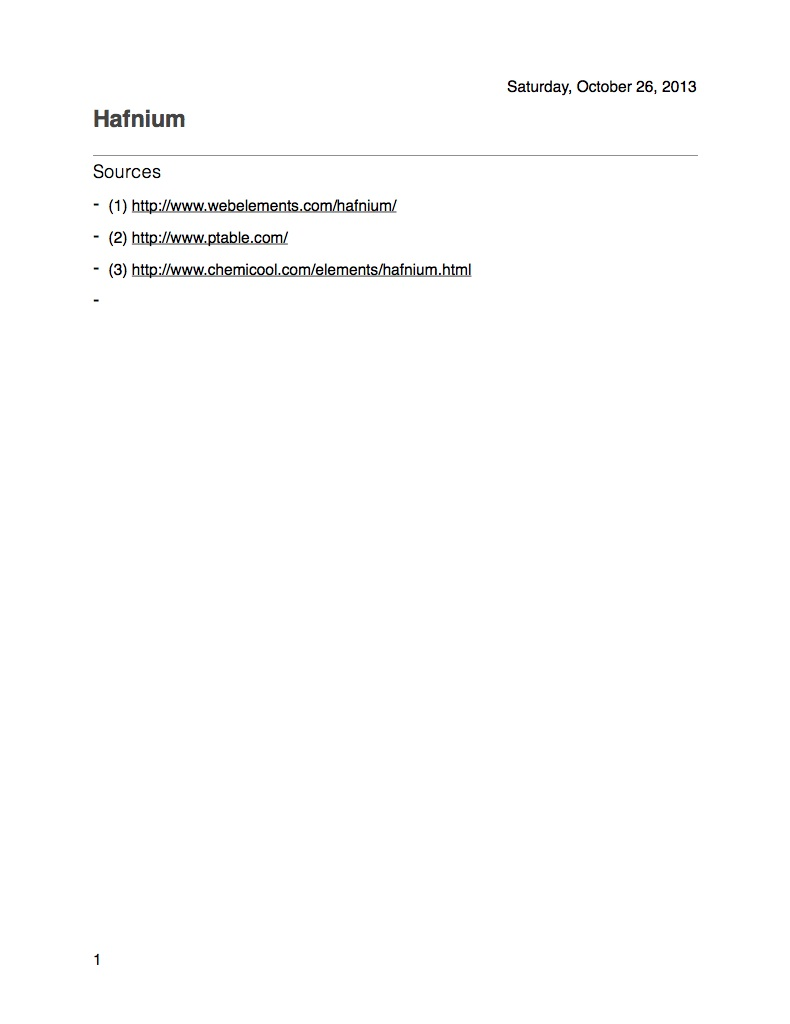
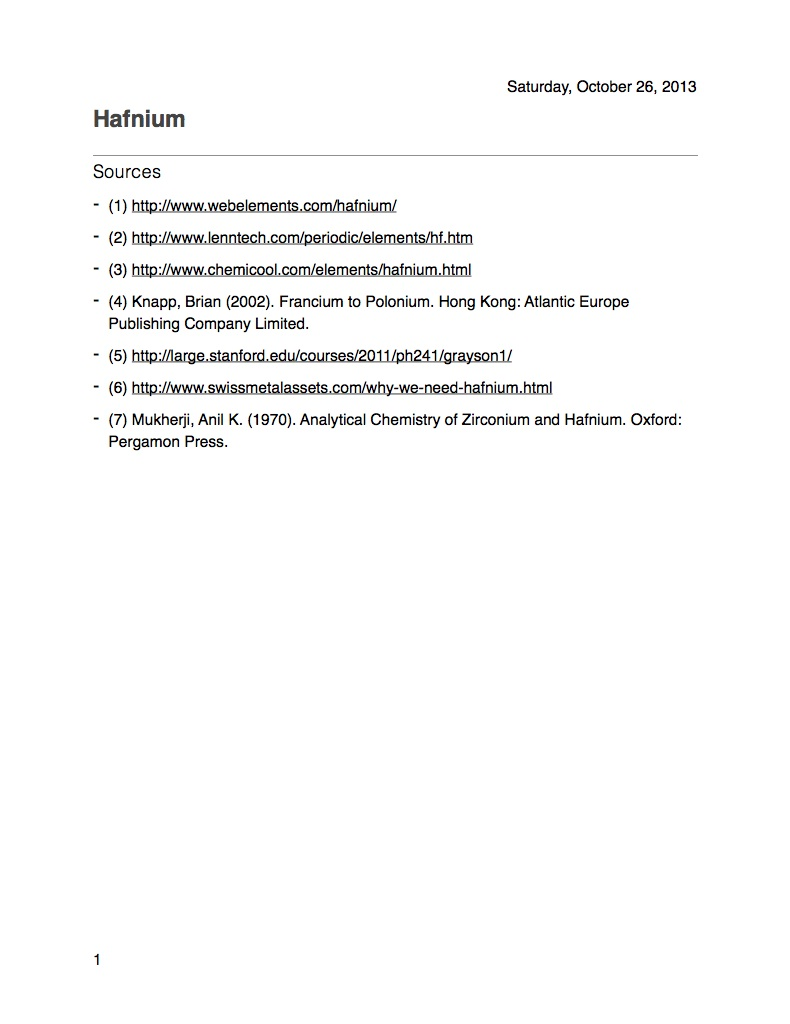
Added tons of info, and more comments. Also added more sources.

Changed region(s): [[0.1215, 0.2812, 0.8506, 0.4375], [0.2734, 0.2188, 0.6076, 0.25]]

diff --git a/Code/Hafnium.py b/Code/Hafnium.py
@@ -36,7 +36,7 @@ while True:
     userSelection = int(input(" #")) #Selection of above numbers. Will print info based on number
     system(clearScreen) #Clears the screen using the method chosen above
     if userSelection == 1: #If user types 1
-        print("General Information of Halfnium (1,2)")
+        print("General Information of Halfnium (1, 2, 4)")
         print()
         print("{0:30s} Hafnium".format("Name:"))
         print("{0:30s} Hf".format("Symbol:"))
@@ -59,43 +59,90 @@ while True:
             print("\nPlease click the window 'tk' to view image")
         
         cont = input("\nPress Enter to return to the main menu...")
-        canvas.destroy()
+        canvas.destroy() #Clears the image from tk window
         system(clearScreen) #Clears the screen using method chosen above
         break #Breaks current loop, to go to menu 2.
 
     elif userSelection == 2: #If user types 2
-        print("Discovery of Hafnium (1, 3)")
+        print("Discovery of Hafnium (1, 2, 3, 4, 6)")
         print("Halfnium was discovered in 1923 by Dirk Coster and George Charles von Hevesy")
         print("in Copenhagen, Denmark. Halfnium comes from the latin name Hafnia, meaning")
         print("Copenhagen. To discover the 72nd elemt, Coster and von Hevesy analyzed ores")
-        print("such as zirconium with x-ray spectography. Halfnium can be isolated into a ")
+        print("such as zirconium with x-ray spectography. Halfnium can be isolated into a")
         print("pure form from Hafnium Tetraiodide (HfI⁴). The HfI⁴ is decomposed on a tungsten")
         print("filament, which makes a crystal bar of Hafnium. This is called the crystal")
-        print("bar process.")
+        print("bar process. The main reason Hafnium was not discovered until 1923 is because")
+        print("it is extremely difficult to obtain from Zirconium ore.")
         cont = input("\nPress Enter to return to the main menu...")
         system(clearScreen) #Clears the screen using method chosen above
         break #Breaks current loop, to go to menu 2.
 
     elif userSelection == 3: #If user types 3
-        print("Properties of Hafnium")
+        print("Properties of Hafnium (1, 2, 3, 4, 7)")
         print("  Physical Properties:")
         print("   ・{0:30s} 2506K (2233ºC)".format("Melting Point:"))
         print("   ・{0:30s} 4876K (8317ºC)".format("Boiling Point:"))
         print("   ・{0:30s} Solid".format("State at Room Temperature:"))
-        print("   ・{0:30s} 13.2g/cm³".format("Density at Room Tempurature:"))
+        print("   ・{0:30s} 13.31g/cm³".format("Density at Room Tempurature:"))
+        print("   ・{0:30s} 2, 8, 18, 32, 10, 2".format("Electron Shell Configuration:"))
+        print("   ・{0:30s} [Xe] 4f¹⁴ 5d² 6s²".format("Valence Shell Configuration:"))
+        print("   ・{0:30s} Shiny".format("Lustre:"))
+        print("   ・{0:30s} Silver".format("Colour:"))
+        print("   ・{0:30s} Brittle".format("Malleability:"))
+        print("   ・{0:30s} 178.49".format("Atomic Weight:"))
+        print("   ・{0:30s} 72".format("Protons:"))
+        print("   ・{0:30s} 72".format("Electrons:"))
+        print("   ・{0:30s} 108".format("Neutrons:"))
+        print("  Chemical Properties:")
+        print("   ・{0:30s} Mildly toxic to humans; mild irritation".format("Toxicity:"))
+        print("   ・{0:30s} Dust is flammable".format("Flammability:"))
+        print("   ・{0:30s} Dust is explosive".format("Explosiveness:"))
         cont = input("\nPress Enter to return to the main menu...")
         system(clearScreen) #Clears the screen using method chosen above
         break #Breaks current loop, to go to menu 2.
     
     elif userSelection == 4: #If user types 4
-        print("This is the contents of selection 4.")
-        cont = input("Press Enter to return to the main menu...")
+        print("Uses of Hafnium: (1, 4, 5, 6, 7)")
+        print()
+        print("Hafnium is a fairly common element, especially considering that it is only")
+        print("used in one thing: nuclear reactor control rods. A control rod controls the")
+        print("rate at which fission takes place inside the nuclear reactor. Without Hafnium,")
+        print("it would not be possible to create nuclear fission; it would all happen too fast")
+        print("and be much to dangerous. Without Hafnium, the world would have to rely upon")
+        print("other forms of power, such as coal, which could potentially create more")
+        print("pollution than nuclear power, which would increase the rate of climate change.")
+        print("Put simply, without Hafnium, climate change would happen faster. Hafnium is also")
+        print("used in nuclear submarines (submarines powered by nuclear reactors). Lastly,")
+        print("Hafnium is used in light bulb filaments for cameras, jet and rocket engines,")
+        print("and computer chips.")
+        cont = input("\nPress Enter to continue...")
+        system(clearScreen) #Clears the screen using method chosen above
+        print("Uses of Hafnium: (1, 4, 5, 6, 7)")
+        print()
+        print("There are 5 different ways to separate Hafnium from Zirconium, listed below.")
+        print()
+        print(" 1. Liquid-liquid extraction* (using their different levels of solubility")
+        print(" 2. Fractional crystallization and precipitation")
+        print(" 3. Fractional distillation (using their different boiling points)")
+        print(" 4. Ion migration")
+        print(" 5. Electrolisis")
+        print()
+        print("* Chiefly used by industrial operations")
+        cont = input("\nPress Enter to return to the main menu...")
         system(clearScreen) #Clears the screen using method chosen above
         break #Breaks current loop, to go to menu 2.
 
     elif userSelection == 5: #If user types 5
-        print("This is the contents of selection 5.")
-        cont = input("Press Enter to return to the main menu...")
+        print("Processing of Hafnium: (1, 2, 3, 4, 6, 7)")
+        print()
+        print("Hafnium is never found on it's own; it's always found with Zirconium in minerals")
+        print("and ores. Hafnium is a contaminant of Zirconium, meaning that it is found with")
+        print("Zirconium and can be separated. The two metals are extracted and processed using")
+        print("solvent extraction, as they both have different sollubilities. The solvent")
+        print("extraction method is quite difficult; it can take up to 3 months to extract the")
+        print("minerals out of a few kilograms of rock, making Hafnium and Zirconium valuable.")
+        print("(Hafnium much more so than Zirconium, due to it being very difficult to obtain).")
+        cont = input("\nPress Enter to return to the main menu...")
         system(clearScreen) #Clears the screen using method chosen above
         break #Breaks current loop, to go to menu 2.
 
@@ -106,8 +153,14 @@ while True:
         break #Breaks current loop, to go to menu 2.
 
     elif userSelection == 7: #If user types 7
-        print("This is the contents of selection 7.")
-        cont = input("Press Enter to return to the main menu...")
+        print("Important Hafnium Compounds: (7)")
+        print()
+        print("Hafnium Dioxide and Hafnium Boride are the two most common compounds involving")
+        print("Hafnium. They are both used in nuclear reactor control rods. They are also used")
+        print("as construction materials for jet engines, rocket engines, and guided missiles,")
+        print("because Hafnium can absorb and release heat over twice as fast and Zirconium or")
+        print("Titanium, the two other major elements used for those tasks.")
+        cont = input("\nPress Enter to return to the main menu...")
         system(clearScreen) #Clears the screen using method chosen above
         break #Breaks current loop, to go to menu 2.
 
@@ -122,11 +175,68 @@ while True:
         wait(1)
         system(clearScreen) #Clears the screen using the method chosen above
         quit() #Quits the program, clearing memory and threads (yay modern memory management!)
+    else:
+        print("Please enter a valid number (1-9).")
+        wait(2)
+
+
+
+
+
+
+
+
+
+
+
+
+
+
+
+
+
+
+
+
+
+
+
+
+
+
+
+
+
+
+
+
+
+
+
+
+
+
+
+
+
+
+
+
+
+
+
+
+
+
+
+
+
+
+
 
 while True:
     system(clearScreen)
-    print("Welcome to Michael Barker's program for info on the element Hafnium!")
-    print("To begin, type the number of one of the following options, and press enter,")
+    print("Type the number of one of the following options, and press enter,")
     print("to see the information it contains:\n")
     print(" (1) General Information (Atomic weight, etc.)")
     print(" (2) Discovery of Hafnium")
@@ -141,7 +251,7 @@ while True:
     userSelection = int(input(" #")) #Selection of above numbers. Will print info based on number
     system(clearScreen) #Clears the screen using the method chosen above
     if userSelection == 1: #If user types 1
-        print("General Information of Halfnium (1,2)")
+        print("General Information of Halfnium (1, 2, 4)")
         print()
         print("{0:30s} Hafnium".format("Name:"))
         print("{0:30s} Hf".format("Symbol:"))
@@ -152,58 +262,134 @@ while True:
         print("{0:30s} 6".format("Period in Periodic Table:"))
         print("{0:30s} Grey".format("Colour:"))
         print("{0:30s} Transition Metal".format("Element Category:"))
+
+        canvas = Canvas(master, width = 300, height = 200)
+        canvas.pack(expand = YES, fill = BOTH)
+
+        gif1 = PhotoImage(file = '/Volumes/SCHOOL/SCHOOL STUFF/SNC1D/My "Favourite" Element Project/Hafnium/Images/1_Hafnium.gif')
+        canvas.create_image(0, 0, anchor=NW, image = gif1)
+        if operSys == "m":
+            system('''/usr/bin/osascript -e 'tell app "Finder" to set frontmost of process "Python" to true' ''')
+        else:
+            print("\nPlease click the window 'tk' to view image")
+        
         cont = input("\nPress Enter to return to the main menu...")
+        canvas.destroy() #Clears the image from tk window
         system(clearScreen) #Clears the screen using method chosen above
+        break #Breaks current loop, to go to menu 2.
 
     elif userSelection == 2: #If user types 2
-        print("Discovery of Hafnium (1, 3)")
+        print("Discovery of Hafnium (1, 2, 3, 4, 6)")
         print("Halfnium was discovered in 1923 by Dirk Coster and George Charles von Hevesy")
         print("in Copenhagen, Denmark. Halfnium comes from the latin name Hafnia, meaning")
         print("Copenhagen. To discover the 72nd elemt, Coster and von Hevesy analyzed ores")
-        print("such as zirconium with x-ray spectography. Halfnium can be isolated into a ")
+        print("such as zirconium with x-ray spectography. Halfnium can be isolated into a")
         print("pure form from Hafnium Tetraiodide (HfI⁴). The HfI⁴ is decomposed on a tungsten")
         print("filament, which makes a crystal bar of Hafnium. This is called the crystal")
-        print("bar process.")
+        print("bar process. The main reason Hafnium was not discovered until 1923 is because")
+        print("it is extremely difficult to obtain from Zirconium ore.")
         cont = input("\nPress Enter to return to the main menu...")
         system(clearScreen) #Clears the screen using method chosen above
+        break #Breaks current loop, to go to menu 2.
 
     elif userSelection == 3: #If user types 3
-        print("Properties of Hafnium")
+        print("Properties of Hafnium (1, 2, 3, 4, 7)")
         print("  Physical Properties:")
         print("   ・{0:30s} 2506K (2233ºC)".format("Melting Point:"))
         print("   ・{0:30s} 4876K (8317ºC)".format("Boiling Point:"))
         print("   ・{0:30s} Solid".format("State at Room Temperature:"))
-        print("   ・{0:30s} 13.2g/cm³".format("Density at Room Tempurature:"))
+        print("   ・{0:30s} 13.31g/cm³".format("Density at Room Tempurature:"))
+        print("   ・{0:30s} 2, 8, 18, 32, 10, 2".format("Electron Shell Configuration:"))
+        print("   ・{0:30s} [Xe] 4f¹⁴ 5d² 6s²".format("Valence Shell Configuration:"))
+        print("   ・{0:30s} Shiny".format("Lustre:"))
+        print("   ・{0:30s} Silver".format("Colour:"))
+        print("   ・{0:30s} Brittle".format("Malleability:"))
+        print("   ・{0:30s} 178.49".format("Atomic Weight:"))
+        print("   ・{0:30s} 72".format("Protons:"))
+        print("   ・{0:30s} 72".format("Electrons:"))
+        print("   ・{0:30s} 108".format("Neutrons:"))
+        print("  Chemical Properties:")
+        print("   ・{0:30s} Mildly toxic to humans; mild irritation".format("Toxicity:"))
+        print("   ・{0:30s} Dust is flammable".format("Flammability:"))
+        print("   ・{0:30s} Dust is explosive".format("Explosiveness:"))
         cont = input("\nPress Enter to return to the main menu...")
         system(clearScreen) #Clears the screen using method chosen above
+        break #Breaks current loop, to go to menu 2.
     
     elif userSelection == 4: #If user types 4
-        print("This is the contents of selection 4.")
-        cont = input("Press Enter to return to the main menu...")
+        print("Uses of Hafnium: (1, 4, 5, 6, 7)")
+        print()
+        print("Hafnium is a fairly common element, especially considering that it is only")
+        print("used in one thing: nuclear reactor control rods. A control rod controls the")
+        print("rate at which fission takes place inside the nuclear reactor. Without Hafnium,")
+        print("it would not be possible to create nuclear fission; it would all happen too fast")
+        print("and be much to dangerous. Without Hafnium, the world would have to rely upon")
+        print("other forms of power, such as coal, which could potentially create more")
+        print("pollution than nuclear power, which would increase the rate of climate change.")
+        print("Put simply, without Hafnium, climate change would happen faster. Hafnium is also")
+        print("used in nuclear submarines (submarines powered by nuclear reactors). Lastly,")
+        print("Hafnium is used in light bulb filaments for cameras, jet and rocket engines,")
+        print("and computer chips.")
+        cont = input("\nPress Enter to continue...")
         system(clearScreen) #Clears the screen using method chosen above
+        print("Uses of Hafnium: (1, 4, 5, 6, 7)")
+        print()
+        print("There are 5 different ways to separate Hafnium from Zirconium, listed below.")
+        print()
+        print(" 1. Liquid-liquid extraction* (using their different levels of solubility")
+        print(" 2. Fractional crystallization and precipitation")
+        print(" 3. Fractional distillation (using their different boiling points)")
+        print(" 4. Ion migration")
+        print(" 5. Electrolisis")
+        print()
+        print("* Chiefly used by industrial operations")
+        cont = input("\nPress Enter to return to the main menu...")
+        system(clearScreen) #Clears the screen using method chosen above
+        break #Breaks current loop, to go to menu 2.
 
     elif userSelection == 5: #If user types 5
-        print("This is the contents of selection 5.")
-        cont = input("Press Enter to return to the main menu...")
+        print("Processing of Hafnium: (1, 2, 3, 4, 6, 7)")
+        print()
+        print("Hafnium is never found on it's own; it's always found with Zirconium in minerals")
+        print("and ores. Hafnium is a contaminant of Zirconium, meaning that it is found with")
+        print("Zirconium and can be separated. The two metals are extracted and processed using")
+        print("solvent extraction, as they both have different sollubilities. The solvent")
+        print("extraction method is quite difficult; it can take up to 3 months to extract the")
+        print("minerals out of a few kilograms of rock, making Hafnium and Zirconium valuable.")
+        print("(Hafnium much more so than Zirconium, due to it being very difficult to obtain).")
+        cont = input("\nPress Enter to return to the main menu...")
         system(clearScreen) #Clears the screen using method chosen above
+        break #Breaks current loop, to go to menu 2.
 
     elif userSelection == 6: #If user types 6
         print("This is the contents of selection 6.")
         cont = input("Press Enter to return to the main menu...")
         system(clearScreen) #Clears the screen using method chosen above
+        break #Breaks current loop, to go to menu 2.
 
     elif userSelection == 7: #If user types 7
-        print("This is the contents of selection 7.")
-        cont = input("Press Enter to return to the main menu...")
+        print("Important Hafnium Compounds: (7)")
+        print()
+        print("Hafnium Dioxide and Hafnium Boride are the two most common compounds involving")
+        print("Hafnium. They are both used in nuclear reactor control rods. They are also used")
+        print("as construction materials for jet engines, rocket engines, and guided missiles,")
+        print("because Hafnium can absorb and release heat over twice as fast and Zirconium or")
+        print("Titanium, the two other major elements used for those tasks.")
+        cont = input("\nPress Enter to return to the main menu...")
         system(clearScreen) #Clears the screen using method chosen above
+        break #Breaks current loop, to go to menu 2.
 
     elif userSelection == 8: #If user types 8
         print("This is the contents of selection 8.")
         cont = input("Press Enter to return to the main menu...")
         system(clearScreen) #Clears the screen using method chosen above
+        break #Breaks current loop, to go to menu 2.
 
     elif userSelection == 9: #If user types 9
         print("Good-bye!")
         wait(1)
         system(clearScreen) #Clears the screen using the method chosen above
         quit() #Quits the program, clearing memory and threads (yay modern memory management!)
+    else:
+        print("Please enter a valid number (1-9)")
+        wait(2)

diff --git a/Code/Image.py b/Code/Image.py
@@ -5,6 +5,6 @@ master = Tk()
 canvas = Canvas(master, width = 300, height = 200)
 canvas.pack(expand = YES, fill = BOTH)
 
-gif1 = PhotoImage(file = '/Volumes/SCHOOL/SCHOOL STUFF/SNC1D/My "Favourite" Element Project/Hafnium/Images/1_Hafnium.gif')
+gif1 = PhotoImage(file = '/Volumes/SCHOOL/SCHOOL STUFF/SNC1D/My "Favourite" Element Project/Hafnium/Images/Walschaerts_motion.gif')
 canvas.create_image(0, 0, anchor=NW, image = gif1)
 mainloop()
